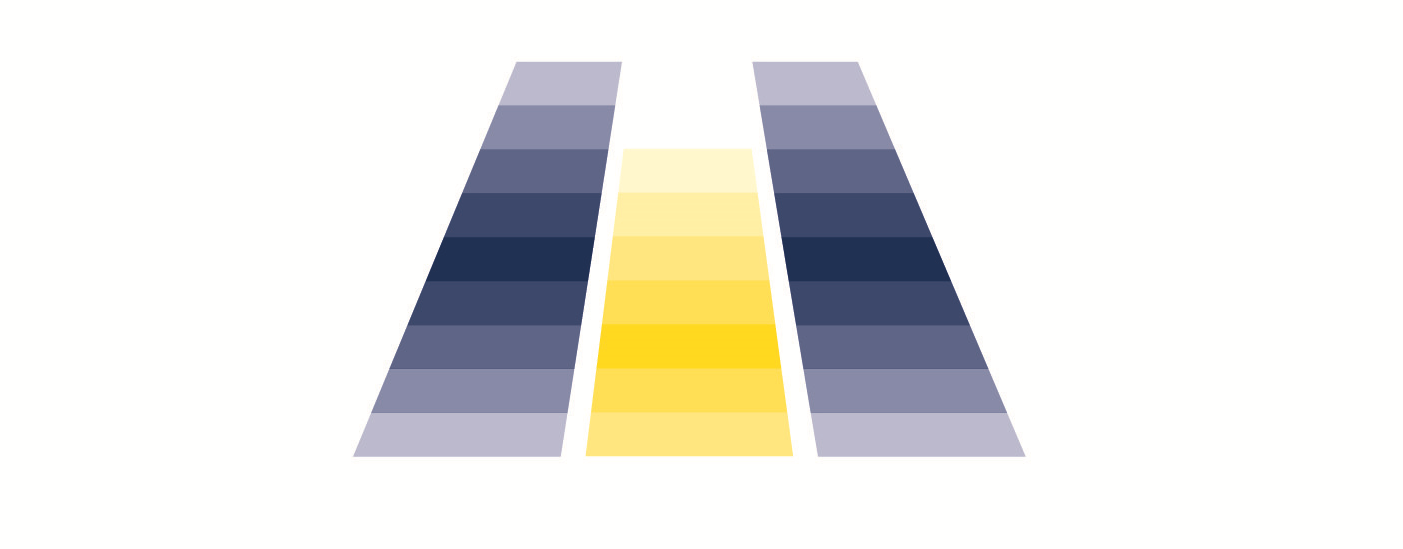
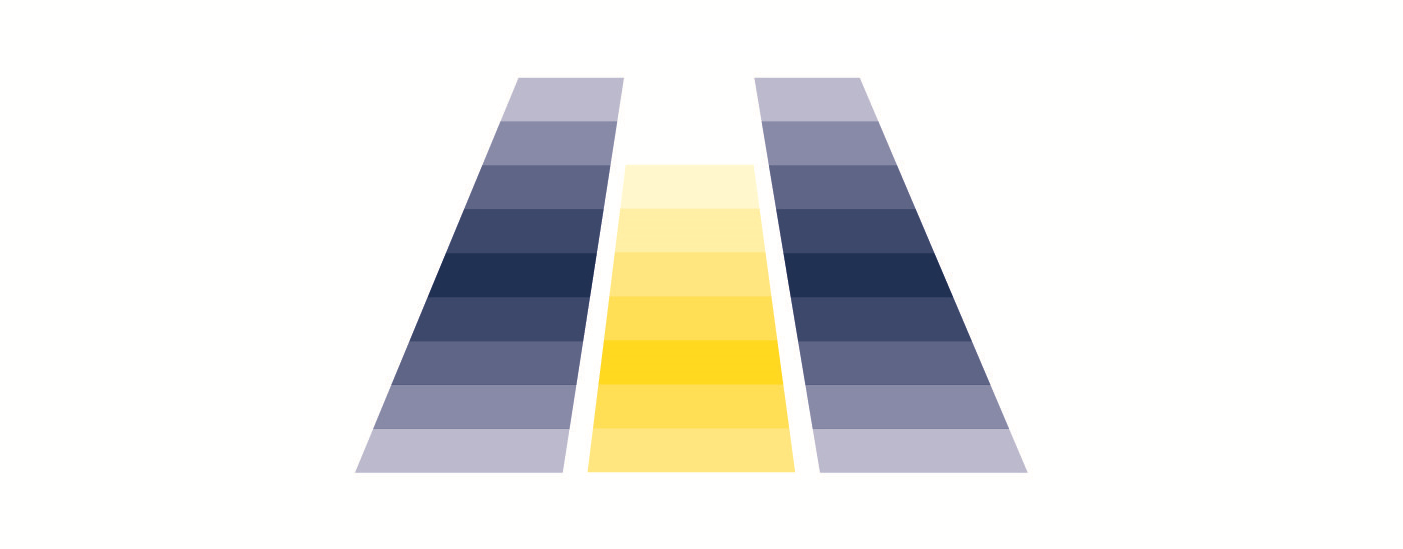
Resume experience divs are reverting back to normal!

Changed region(s): [[0.2452, 0.0929, 0.7356, 0.867], [0.521, 0.0929, 0.613, 0.1548]]

diff --git a/js/resume.js b/js/resume.js
@@ -23,6 +23,21 @@ $(document).delegate('#experience-wolverine-trading', 'click touchstart', functi
 	show_experience('#wolverine-trading-div', '#experience-wolverine-trading', '#experience-wt-text', 'wolve_bool', wolverine_trading_text);
 });
 
+$(document).delegate('#experience-mdp', 'click touchstart', function(event)
+{
+	show_experience('#experience-mdp-div', '#experience-mdp', '#experience-mdp-text', 'mdp_bool', mdp_text);
+});
+
+$(document).delegate('#experience-ak', 'click touchstart', function(event)
+{
+	show_experience('#experience-ak-div', '#experience-ak', '#experience-ak-text', 'ak_bool', ak_text);
+});
+
+$(document).delegate('#experience-183', 'click touchstart', function(event)
+{
+	show_experience('#experience-183-div', '#experience-183', '#experience-183-text', 'eecs_183_bool', eecs_183_text);
+});
+
 function show_experience(experience_div, experience_id, experience_text_id, bool_index, text_func)
 {
 	if (!done) 
@@ -50,10 +65,16 @@ function show_experience(experience_div, experience_id, experience_text_id, bool
 		}, 500, function() {
 			done = true;
 		});
+		
+		// Animation for moving text div back to center
+		var original_mid_val = ((($('#experience-wrapper').height() * .21) / 2) - (parseInt($(experience_text_id).css('height')) / 2));
+		if (experience_id != experience_ids[0]) // Check for shrinkage, if not first div
+		{
+			original_mid_val += ($('#experience-wrapper').height() * .21) - ($('#experience-wrapper').height() * .15);
+		}
 
-		// Animation for moving text div
 		$(experience_text_id).velocity({
-			top: "+=" + (((parseInt($(experience_id).css('top')) + oldHeight) / 2) - (parseInt($(experience_text_id).css('height')) / 2))
+			top: "+=" + original_mid_val
 		}, 500);
 
 		// Extend all other divs
@@ -102,8 +123,15 @@ function show_experience(experience_div, experience_id, experience_text_id, bool
 		});
 
 		// Move current text
+		var text_offset = $(experience_id).offset().top;
+		
+		if (experience_id != experience_ids[0])
+		{ // Need to account for the div above it shrinking
+			text_offset -= ($('#experience-wrapper').height() * .21) - ($('#experience-wrapper').height() * .15);
+		}
+		
 		$(experience_text_id).velocity({
-			top: $(experience_id).offset().top
+			top: text_offset
 		}, 500);
 
 		// Shrink all other divs
@@ -111,7 +139,7 @@ function show_experience(experience_div, experience_id, experience_text_id, bool
 			if (value != experience_id)
 			{ // Don't want to shrink the current id
 				$(value).velocity({
-					height: "16%"
+					height: "15%"
 				}, 500);
 			}
 		});
@@ -137,6 +165,24 @@ function wolverine_trading_text(to_append) {
 }
 
 function mdp_text(to_append) {
+	var text = "<p class=\"white text-body-raleway center\" style=\"opacity: 0\"><b><span class=\"white\">Multidisciplinary Design Program</span></b> with <b>MDA Information Systems</b><br>Ypsilanti, MI | Winter '16 to Fall '16</p>\
+							<p class=\"white text-body-raleway-subtext experience-subtext\"><span class=\"tab\"><b><span class=\"green\">></span></b> Design software to <span class=\"green\"><b>universally emulate financial exchanges</b></span> for testing and benchmark purposes, specifically Miami's MIAX and Chicago's CME Exchanges.</span></p>\
+							<p class=\"white text-body-raleway-subtext experience-subtext\"><span class=\"tab\"><b><span class=\"green\">></span></b> Create functional and latency tests for the emulator, then graph and statistically analyze using the <span class=\"green\"><b>R graphing language</b></span>.</p>\
+							<p class=\"white text-body-raleway-subtext experience-subtext\"><span class=\"tab\"><b><span class=\"green\">></span></b> Program heavily in network computing using the <b><span class=\"green\">Boost.Asio library</span></b> to simulate TCP/UDP connections for the emulator.</span></p>\
+							<p class=\"white text-body-raleway-subtext experience-subtext\"><span class=\"tab\"><b><span class=\"green\">></span></b> Work in <b><span class=\"green\">agile development environment</span></b> entailing daily stand-upsand bi-weekly retrospectives.</span></p>";
+
+	// Only append text if boolean is true
+	if (to_append)
+	{ // Append text, don't return
+		$('#experience-mdp-div').append(text);
+	}
+	else
+	{ // Just return text otherwise
+		return text;
+	}
+}
+
+function ak_text(to_append) {
 	var text = "<p class=\"white text-body-raleway center\" style=\"opacity: 0\"><b><span class=\"white\">Multidisciplinary Design Program</span></b> with <b>MDA Information Systems LLC</b><br>Ypsilanti, MI | Winter '16 to Fall '16</p>\
 							<p class=\"white text-body-raleway-subtext experience-subtext\"><span class=\"tab\"><b><span class=\"green\">></span></b> Design software to <span class=\"green\"><b>universally emulate financial exchanges</b></span> for testing and benchmark purposes, specifically Miami's MIAX and Chicago's CME Exchanges.</span></p>\
 							<p class=\"white text-body-raleway-subtext experience-subtext\"><span class=\"tab\"><b><span class=\"green\">></span></b> Create functional and latency tests for the emulator, then graph and statistically analyze using the <span class=\"green\"><b>R graphing language</b></span>.</p>\
@@ -146,7 +192,25 @@ function mdp_text(to_append) {
 	// Only append text if boolean is true
 	if (to_append)
 	{ // Append text, don't return
-		$('#wolverine-trading-div').append(text);
+		$('#experience-ak-div').append(text);
+	}
+	else
+	{ // Just return text otherwise
+		return text;
+	}
+}
+
+function eecs_183_text(to_append) {
+	var text = "<p class=\"white text-body-raleway center\" style=\"opacity: 0\"><b><span class=\"white\">Multidisciplinary Design Program</span></b> with <b>MDA Information Systems LLC</b><br>Ypsilanti, MI | Winter '16 to Fall '16</p>\
+							<p class=\"white text-body-raleway-subtext experience-subtext\"><span class=\"tab\"><b><span class=\"green\">></span></b> Design software to <span class=\"green\"><b>universally emulate financial exchanges</b></span> for testing and benchmark purposes, specifically Miami's MIAX and Chicago's CME Exchanges.</span></p>\
+							<p class=\"white text-body-raleway-subtext experience-subtext\"><span class=\"tab\"><b><span class=\"green\">></span></b> Create functional and latency tests for the emulator, then graph and statistically analyze using the <span class=\"green\"><b>R graphing language</b></span>.</p>\
+							<p class=\"white text-body-raleway-subtext experience-subtext\"><span class=\"tab\"><b><span class=\"green\">></span></b> Program heavily in network computing using the <b><span class=\"green\">Boost.Asio library</span></b> to simulate TCP/UDP connections for the emulator.</span></p>\
+							<p class=\"white text-body-raleway-subtext experience-subtext\"><span class=\"tab\"><b><span class=\"green\">></span></b> Work in <b><span class=\"green\">agile development environment</span></b> entailing daily stand-upsand bi-weekly retrospectives.</span></p>";
+
+	// Only append text if boolean is true
+	if (to_append)
+	{ // Append text, don't return
+		$('#experience-183-div').append(text);
 	}
 	else
 	{ // Just return text otherwise

diff --git a/js/index.js b/js/index.js
@@ -12,6 +12,11 @@ $(document).ready(function() {
 	$('#experience-wt-text').css('left', $('#experience-wolverine-trading').offset().left + (((parseInt($('#experience-wolverine-trading').css('left')) + parseInt($('#experience-wolverine-trading').css('width'))) / 2) - (parseInt($('#experience-wt-text').css('width')) / 2)));
 	$('#experience-mdp-text').css('top', $('#experience-mdp').offset().top + (((parseInt($('#experience-mdp').css('top')) + parseInt($('#experience-mdp').css('height'))) / 2) - (parseInt($('#experience-mdp-text').css('height')) / 2)));
 	$('#experience-mdp-text').css('left', $('#experience-mdp').offset().left + (((parseInt($('#experience-mdp').css('left')) + parseInt($('#experience-mdp').css('width'))) / 2) - (parseInt($('#experience-mdp-text').css('width')) / 2)));
+	$('#experience-ak-text').css('top', $('#experience-ak').offset().top + (((parseInt($('#experience-ak').css('top')) + parseInt($('#experience-ak').css('height'))) / 2) - (parseInt($('#experience-ak-text').css('height')) / 2)));
+	$('#experience-ak-text').css('left', $('#experience-ak').offset().left + (((parseInt($('#experience-ak').css('left')) + parseInt($('#experience-ak').css('width'))) / 2) - (parseInt($('#experience-ak-text').css('width')) / 2)));
+	$('#experience-183-text').css('top', $('#experience-183').offset().top + (((parseInt($('#experience-183').css('top')) + parseInt($('#experience-183').css('height'))) / 2) - (parseInt($('#experience-183-text').css('height')) / 2)));
+	$('#experience-183-text').css('left', $('#experience-183').offset().left + (((parseInt($('#experience-183').css('left')) + parseInt($('#experience-183').css('width'))) / 2) - (parseInt($('#experience-183-text').css('width')) / 2)));
+
 });
 
 $(document).delegate('.front_door_image', 'click touchstart', function(event)
@@ -107,6 +112,12 @@ $(window).resize(function() {
 	{
 		$('#experience-wt-text').css('top', $('#experience-wolverine-trading').offset().top + (((parseInt($('#experience-wolverine-trading').css('top')) + parseInt($('#experience-wolverine-trading').css('height'))) / 2) - (parseInt($('#experience-wt-text').css('height')) / 2)));
 		$('#experience-wt-text').css('left', $('#experience-wolverine-trading').offset().left + (((parseInt($('#experience-wolverine-trading').css('left')) + parseInt($('#experience-wolverine-trading').css('width'))) / 2) - (parseInt($('#experience-wt-text').css('width')) / 2)));
+		$('#experience-mdp-text').css('top', $('#experience-mdp').offset().top + (((parseInt($('#experience-mdp').css('top')) + parseInt($('#experience-mdp').css('height'))) / 2) - (parseInt($('#experience-mdp-text').css('height')) / 2)));
+		$('#experience-mdp-text').css('left', $('#experience-mdp').offset().left + (((parseInt($('#experience-mdp').css('left')) + parseInt($('#experience-mdp').css('width'))) / 2) - (parseInt($('#experience-mdp-text').css('width')) / 2)));
+		$('#experience-ak-text').css('top', $('#experience-ak').offset().top + (((parseInt($('#experience-ak').css('top')) + parseInt($('#experience-ak').css('height'))) / 2) - (parseInt($('#experience-ak-text').css('height')) / 2)));
+		$('#experience-ak-text').css('left', $('#experience-ak').offset().left + (((parseInt($('#experience-ak').css('left')) + parseInt($('#experience-ak').css('width'))) / 2) - (parseInt($('#experience-ak-text').css('width')) / 2)));
+		$('#experience-183-text').css('top', $('#experience-183').offset().top + (((parseInt($('#experience-183').css('top')) + parseInt($('#experience-183').css('height'))) / 2) - (parseInt($('#experience-183-text').css('height')) / 2)));
+		$('#experience-183-text').css('left', $('#experience-183').offset().left + (((parseInt($('#experience-183').css('left')) + parseInt($('#experience-183').css('width'))) / 2) - (parseInt($('#experience-183-text').css('width')) / 2)));
 	}
 });
 

diff --git a/index.html b/index.html
@@ -121,19 +121,19 @@
 
 							<!-- Listing Education -->
 							<div class="experience" id="experience-wolverine-trading">
-								<p class="white text-body-raleway center" id="experience-wt-text"><b><span class="white">Software Engineer Intern</span></b> with <b><span class="white">Wolverine Trading, LLC</span></b><br>Chicago, IL | Summer '16</p>
+								<p class="white text-body-raleway center" id="experience-wt-text"><b><span class="green">Software Engineer Intern</span></b> with <b><span class="white">Wolverine Trading, LLC</span></b><br>Chicago, IL | Summer '16</span></p>
 							</div>
 
 							<div class="experience" id="experience-mdp">
-								<p class="white text-body-raleway center" id="experience-mdp-text"><b><span class="white">Multidisciplinary Design Program</span></b> with <b><span class="white">MDA Information Systems</span></b><br>Ypsilanti, MI | Winter '16 to Fall '16</p>
+								<p class="white text-body-raleway center" id="experience-mdp-text"><b><span class="cyan">Multidisciplinary Design Program</span></b> with <b><span class="white">MDA Information Systems</span></b><br>Ypsilanti, MI | Winter '16 to Fall '16</p>
 							</div>
 
 							<div class="experience" id="experience-ak">
-								<p class="white text-body-raleway center" id="experience-ak-text"><span class="tab"><b><span class="pink">Process Control Intern</span></b> with <b>AK Steel Corporation</b> in Dearborn, MI during Summer '15.</span></p>
+								<p class="white text-body-raleway center" id="experience-ak-text"><b><span class="pink">Process Control Intern</span></b> with <b><span class="white">AK Steel Corporation</span></b><br>Dearborn, MI | Summer '15</p>
 							</div>
 							
 							<div class="experience" id="experience-183">
-								<p class="white text-body-raleway center" id="experience-183-text"><span class="tab"><b><span class="pink">EECS 183 Instructional Aide</span></b> with University of Michigan in Ann Arbor, MI from Fall '15 to Present.</span></p>
+								<p class="white text-body-raleway center" id="experience-183-text"><b><span class="orange">EECS 183 Instructional Aide</span></b> with <b><span class="white">University of Michigan</span></b><br>Ann Arbor, MI | Fall '15 to Winter '17.</p>
 							</div>
 						</div>
 					</div>

diff --git a/style.css b/style.css
@@ -412,12 +412,12 @@ a:hover {
 	right: 0;
 	width: 100%;
 	height: 100%;
-	opacity: 0.2;
+	opacity: 0.165;
 }
 
-#experience-MDP:after {
+#experience-mdp:after {
 	content: ' ';
-	background-image: url(images/wolverine-trading.png);
+	background-image: url(images/MDA.png);
 	background-size: 100% 100%;
 	display: block;
 	position: absolute;
@@ -427,7 +427,37 @@ a:hover {
 	right: 0;
 	width: 100%;
 	height: 100%;
-	opacity: 0.2;
+	opacity: 0.165;
+}
+
+#experience-ak:after {
+	content: ' ';
+	background-image: url(images/ak_steel.png);
+	background-size: 100% 100%;
+	display: block;
+	position: absolute;
+	left: 0;
+	top: 0;
+	bottom: 0;
+	right: 0;
+	width: 100%;
+	height: 100%;
+	opacity: 0.165;
+}
+
+#experience-183:after {
+	content: ' ';
+	background-image: url(images/block_M.png);
+	background-size: 100% 100%;
+	display: block;
+	position: absolute;
+	left: 0;
+	top: 0;
+	bottom: 0;
+	right: 0;
+	width: 100%;
+	height: 100%;
+	opacity: 0.165;
 }
 
 #experience-wt-text, #experience-mdp-text, #experience-ak-text, #experience-183-text {
